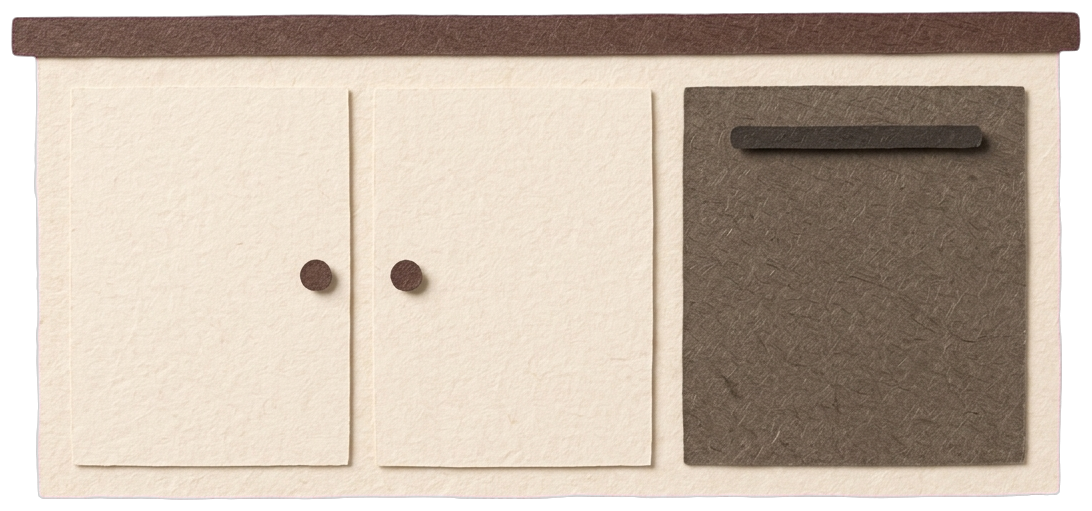
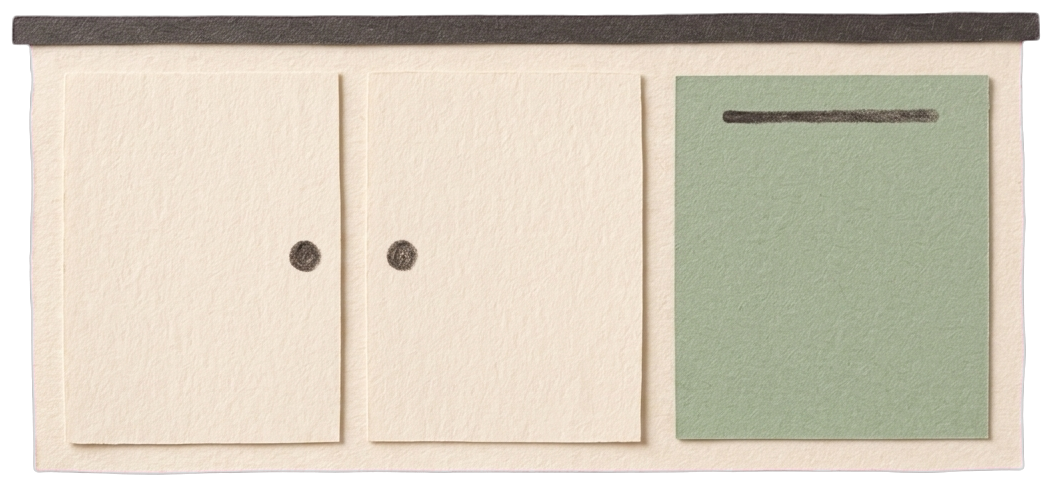
launch video: kitchen fixes from the look review
Cards now seat on their lowest opaque pixel: the explainer kettle carries 52
clear rows under it, which left it hanging about 2 cm above the worktop. The
kettle also gets a paper trivet. The phone is a helper with rounded corners,
twice the size, on a hidden paper stand with its screen to the camera, so
shot 2 can show her phone. The oven door is repainted sage so ink stays for
small details, and the steam loses its tint (it read as smoke).
The kit also gains keyframe helpers, bottom-edge pivots (cards fold up) and
one command line shared by every set script.

diff --git a/marketing/launch-video/blender/paper.py b/marketing/launch-video/blender/paper.py
@@ -8,6 +8,8 @@ import math
 from pathlib import Path
 
 import bpy
+import numpy as np
+from mathutils import Euler, Matrix, Vector
 
 HERE = Path(__file__).resolve().parent.parent          # marketing/launch-video
 PAPER, INK, GREEN, YELLOW = "F7F1E8", "403C36", "297A5C", "E8C77A"
@@ -93,17 +95,57 @@ def card(name: str, image: str, height: float, x: float, y: float, z: float = 0.
     img = bpy.data.images.load(str(HERE / image), check_existing=True)
     w = height * img.size[0] / img.size[1]
     rot = (0, 0, turn) if flat else (90 - lean, 0, turn)
-    loc = (x, y, z + 0.0006) if flat else (x, y, z + height / 2)
+    # Seat the lowest opaque pixel on the surface: PNGs carry clear rows under the object
+    # (the kettle has 52), which would otherwise leave the card hanging in the air.
+    a = np.array(img.pixels[:], dtype=np.float32).reshape(img.size[1], img.size[0], 4)[..., 3]
+    drop = height * int(np.argmax(a.max(axis=1) > 0.5)) / img.size[1]   # Blender rows start at the bottom
+    loc = (x, y, z + 0.0006) if flat else (x, y, z - drop * math.cos(math.radians(lean)))
     ob = _obj(name, lambda: bpy.ops.mesh.primitive_plane_add(size=1), paper_material(name, image=image, tint=tint, sat=sat),
               loc, rot, (w, height, 1))
+    if not flat:                                           # pivot on the bottom edge: cards fold up from the table
+        ob.data.transform(Matrix.Translation((0, 0.5, 0)))
     thick = ob.modifiers.new("paper", "SOLIDIFY")          # card stock, so edges catch light
     thick.thickness, thick.offset = 0.0015, 0
     return ob
 
 
-def box(name: str, color: str, size, loc, rot=(0, 0, 0), glow: float = 0.0):
-    return _obj(name, lambda: bpy.ops.mesh.primitive_cube_add(size=1), paper_material(name, color, glow=glow),
-                loc, rot, size)
+def box(name: str, color: str, size, loc, rot=(0, 0, 0), glow: float = 0.0, round_: float = 0.0):
+    """A paper block, `size` baked into the mesh so `round_` (corner radius, metres) stays round."""
+    ob = _obj(name, lambda: bpy.ops.mesh.primitive_cube_add(size=1), paper_material(name, color, glow=glow), loc, rot)
+    ob.data.transform(Matrix.Diagonal((*size, 1)))
+    if round_:
+        bev = ob.modifiers.new("round", "BEVEL")
+        bev.width, bev.segments, bev.affect = round_, 8, "EDGES"
+        bev.limit_method = "ANGLE"
+    return ob
+
+
+def disc(name: str, color: str, radius: float, thick: float, x: float, y: float, z: float = 0.0,
+         upright: bool = False, glow: float = 0.0):
+    """A round paper piece lying on a surface (a trivet), top at z + thick; or `upright`, centred at z,
+    facing the camera (a paper sun)."""
+    loc, rot = ((x, y, z), (90, 0, 0)) if upright else ((x, y, z + thick / 2), (0, 0, 0))
+    return _obj(name, lambda: bpy.ops.mesh.primitive_cylinder_add(vertices=64, radius=1, depth=1),
+                paper_material(name, color, glow=glow), loc, rot, (radius, radius, thick))
+
+
+def phone(name: str, x: float, y: float, z: float, w: float = 0.11, lean: float = 15.0, turn: float = 0.0,
+          body: str = INK, lit: float = 1.2, stand: bool = True):
+    """A phone standing on its bottom edge, tipped back `lean` degrees, screen to the camera: an ink body,
+    a plain warm yellow face (glowing when `lit` > 0, dark ink when 0), and a small cream paper stand
+    behind it. Never anything on the screen."""
+    h, t = w * 2.0, 0.009
+    rot = Euler((math.radians(-lean), 0, math.radians(turn)))
+    m = rot.to_matrix()
+    centre = Vector((x, y, z)) + m @ Vector((0, 0, h / 2))
+    deg = (-lean, 0, turn)
+    box(name, body, (w, t, h), centre, deg, round_=w * 0.14)
+    face = centre + m @ Vector((0, -t / 2 - 0.0006, 0))
+    box(name + "-screen", YELLOW if lit else "2E2B27", (w * 0.84, 0.001, h * 0.88), face, deg, glow=lit,
+        round_=w * 0.08)
+    if stand:                                   # a cream paper wedge behind, out of sight from the front
+        back = Vector((x, y, z)) + m @ Vector((0, t / 2 + 0.035, 0))
+        box(name + "-stand", PAPER, (w * 0.6, 0.05, h * 0.42), (back.x, back.y + 0.012, z + h * 0.18), (-lean - 30, 0, turn))
 
 
 def stage(table_front: float = -0.6, wall_y: float = 0.62):
@@ -128,6 +170,18 @@ def light(key=(-1.6, -1.4, 2.3), power: float = 110.0, fill: float = 0.16):
     return k
 
 
+def key(ob, path: str, frame: int, value) -> None:
+    """Set and keyframe one property, with eased (Bezier) interpolation, which is Blender's default."""
+    setattr(ob, path, value)
+    ob.keyframe_insert(path, frame=frame)
+
+
+def key_socket(mat_name: str, socket: str, frame: int, value) -> None:
+    sock = bpy.data.materials[mat_name].node_tree.nodes["Principled BSDF"].inputs[socket]
+    sock.default_value = value
+    sock.keyframe_insert("default_value", frame=frame)
+
+
 def camera(loc, target, lens: float = 50.0):
     bpy.ops.object.camera_add(location=loc)
     cam = bpy.context.active_object
@@ -137,7 +191,7 @@ def camera(loc, target, lens: float = 50.0):
     aim.target = bpy.context.active_object
     aim.track_axis, aim.up_axis = "TRACK_NEGATIVE_Z", "UP_Y"
     bpy.context.scene.camera = cam
-    return cam
+    return cam, aim.target
 
 
 def render_settings(samples: int = 96, width: int = 1920, height: int = 1080, engine: str = "CYCLES") -> None:
@@ -169,7 +223,40 @@ def render_settings(samples: int = 96, width: int = 1920, height: int = 1080, en
     sc.render.film_transparent = False
 
 
-def still(path: str) -> None:
+def still(path: str, frame: int = 1) -> None:
     sc = bpy.context.scene
+    sc.frame_set(frame)
     sc.render.filepath = str(HERE / path)
     bpy.ops.render.render(write_still=True)
+
+
+def frames(folder: str, count: int) -> None:
+    """Render frames 1..count to <folder>/0001.png and on."""
+    sc = bpy.context.scene
+    sc.frame_start, sc.frame_end = 1, count
+    sc.render.filepath = str(HERE / folder) + "/"
+    bpy.ops.render.render(animation=True)
+
+
+def run(build, shots: dict[str, int]) -> None:
+    """Shared command line for every set script, after Blender's `--`:
+    <shot> still [frame] [out.png]   one frame (default the shot's middle) to out/stills/<shot>.png
+    <shot> frames [WxH]              every frame to out/frames/<shot>[-WxH]/
+    `build(shot)` builds the set and animates it for that shot; `shots` maps shot id to frame count."""
+    import sys
+    args = sys.argv[sys.argv.index("--") + 1:]
+    shot, mode = args[0], args[1] if len(args) > 1 else "still"
+    if shot not in shots:
+        raise SystemExit(f"unknown shot {shot}; this set renders {sorted(shots)}")
+    reset()
+    build(shot)
+    count = shots[shot]
+    if mode == "frames":
+        size = args[2] if len(args) > 2 else "1920x1080"
+        w, h = (int(v) for v in size.split("x"))
+        render_settings(samples=48, width=w, height=h)
+        frames(f"out/frames/{shot}" + ("" if size == "1920x1080" else f"-{size}"), count)
+    else:
+        render_settings()
+        frame = int(args[2]) if len(args) > 2 else count // 2
+        still(args[3] if len(args) > 3 else f"out/stills/{shot}.png", frame)

diff --git a/marketing/launch-video/assets/PROMPTS.md b/marketing/launch-video/assets/PROMPTS.md
@@ -56,7 +56,7 @@ A kitchen window cut from paper: a square window with a soft ink paper frame and
 
 ## layer-counter
 ```
-The front of a small kitchen counter and stove unit cut from cream paper, a wide low rectangle about three times wider than tall. On the right third, a simple ink paper oven door with one short ink handle bar. On the left two thirds, two plain cream cupboard doors with small round ink knobs. A thin ink paper strip along the top edge as the worktop edge.
+The front of a small kitchen counter and stove unit cut from cream paper, a wide low rectangle about three times wider than tall. On the right third, a simple oven door cut from soft sage green paper (#9DB39B) with one short thin ink handle bar near its top. On the left two thirds, two plain cream cupboard doors with small round ink knobs. A thin soft ink paper strip along the top edge as the worktop edge.
 ```
 
 ## layer-mug
@@ -72,4 +72,34 @@ A small potted plant cut from paper: a cream paper pot with a thin ink rim, and 
 ## layer-steam
 ```
 Three soft cream paper steam wisps, each a gentle S-shaped curl, rising side by side, tallest in the middle, with small gaps between them.
+```
+
+## layer-thumbs
+```
+A thumbs-up symbol cut from Kettle green paper as a plain rounded sticker shape: a soft rounded fist block with one rounded thumb pointing straight up, cut off flat at the bottom with no wrist, no arm, no sleeve, no fingernails, no skin tone. It reads as an emoji-style sticker, not a hand.
+```
+
+## layer-map
+```
+A picture map cut from paper, seen from directly above, as one wide flat rectangular sheet about twice as wide as tall with gently torn edges: a cream paper ground, soft Kettle-green paper fields in rounded patches, a winding pale blue-grey paper river crossing from top to bottom near the middle, and a faint dotted ink path winding from the left edge to the right edge. No roads, no labels, no buildings, no compass.
+```
+
+## layer-city
+```
+A small cluster of three cream paper city apartment buildings side by side, different heights, the tallest in the middle, flat front view, each with neat rows of small soft ink windows, a few windows warm yellow.
+```
+
+## layer-house
+```
+A small single-storey house cut from paper, flat front view: cream walls, a Kettle-green pitched roof, a small green chimney, an ink arched door on the left, and one square kitchen window on the right glowing warm yellow.
+```
+
+## layer-hills
+```
+A wide low strip of gently rolling hills cut from Kettle-green paper, two overlapping layers of slightly different greens, about five times wider than tall, flat along the bottom edge.
+```
+
+## layer-tree
+```
+One simple round tree cut from paper: a round Kettle-green canopy and a short soft ink trunk, flat front view.
 ```
